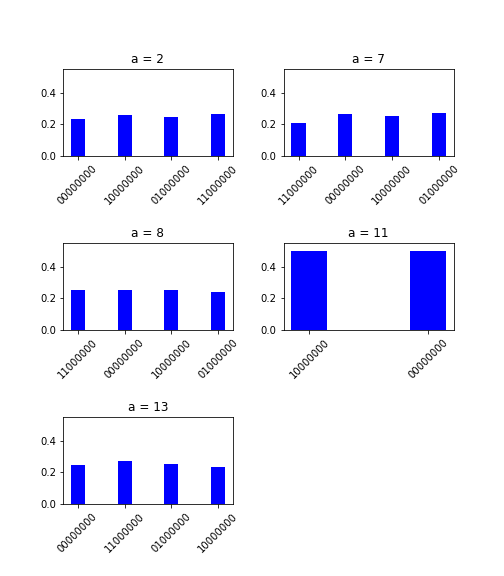
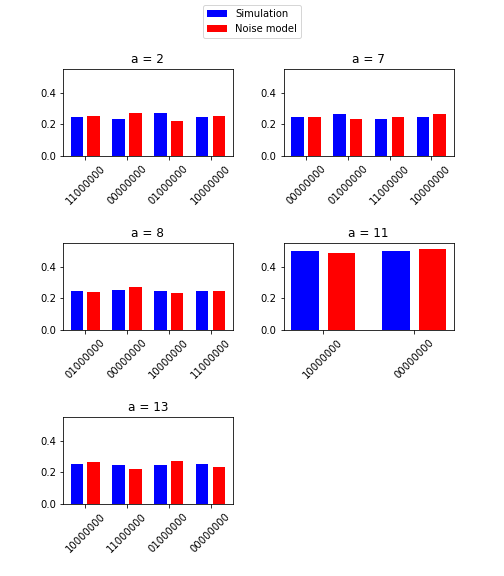
Write code for simultaneous visualization of results of 2 models

diff --git a/visualize.py b/visualize.py
@@ -5,18 +5,33 @@
 
 import matplotlib.pyplot as plt
 import itertools
+import numpy as np
 from math import gcd
-
-def makeBarPlots(counts):
+    
+def makeBarPlots(counts1,counts2):
+    
+    counts1,counts2 = processCounts(counts1,counts2)
+    
     fig, subfig = plt.subplots(3,2,figsize=(7,8))
-    z = zip(counts.items(),itertools.product(range(3),range(2)))
-    for (key,value), (i,j) in z:
+    z1 = zip(counts1.items(),itertools.product(range(3),range(2)))
+    for (key,value), (i,j) in z1:
         if key == None: coninue
-        subfig[i,j].bar([k for k in value.keys()],[v/1024 for v in value.values()],0.3,color="b")
+        x = np.arange(len(value))
+        subfig[i,j].bar(x-0.2,[v/1024 for v in value.values()],0.3,color="b",label="Simulation")
         title = "a = " + str(key)
         subfig[i,j].set_title(title)
         subfig[i,j].set_ylim([0,0.55])
+        subfig[i,j].set_xticks(x)
+        subfig[i,j].set_xticklabels([k for k in value.keys()])
     
+    z2 = zip(counts2.items(),itertools.product(range(3),range(2)))
+    for (key,value), (i,j) in z2:
+        if key == None: coninue
+        x = np.arange(len(value))
+        subfig[i,j].bar(x+0.2,[v/1024 for v in value.values()],0.3,color="r",label="Noise model")
+    
+    handles, labels = subfig[2,0].get_legend_handles_labels()
+    fig.legend(handles, labels, loc='upper center')
     for ax in fig.axes:
         plt.sca(ax)
         plt.xticks(rotation=45)    
@@ -24,11 +39,24 @@ def makeBarPlots(counts):
     plt.subplots_adjust(hspace=1)
     plt.subplots_adjust(wspace=0.3)
     plt.savefig("Results/simulationResults.png")
-    #plt.show()    
+    #plt.show()  
+
+def processCounts(c1,c2):
+    processedCounts = dict()
+    for a,d in c2.items():
+        processedCounts[a] = dict()
+        for k in d.keys():
+            if k in c1[a]:
+                processedCounts[a][k] = c1[a][k]
+            else:
+                processedCounts[a][k] = 0
+            if c2[a][k]==1:
+                c2[a][k]=2 #Add one for better visualization, as only 1 count is too small to be rendered
+    return c1, c2
     
-def guessFactors(df,a,N):
-    path = "Results/a=" + str(a) + ".csv"
-    df.to_csv(path,index=False)  
+def guessFactors(df,a,N,model):
+    path = "Results/" + model + "_a=" + str(a) + ".csv"
+    df.to_csv(path,index=False)
     
     r = df.value_counts(subset=["Guess for r"]).index[0][0] #Take most occurring r
     file = open(path,"a")

diff --git a/main.py b/main.py
@@ -34,14 +34,20 @@ def Simulate(a=7, model=None):
 # Run Shor circuit for multiple guesses of a, and save the results as bar charts
 # and tables
 def SimulateAll():
-    results = dict()
+    results1 = dict()
+    results2 = dict()
     for a in aArray:
-        df, counts = PostProcess(Simulate(a),a)
-        results[a] = counts
-        guessFactors(df,a,15)
+        df1, counts1 = PostProcess(Simulate(a),a)
+        results1[a] = counts1
+        guessFactors(df1,a,15,"Simulation")
+        """Fix here to include noise model"""
+        df2, counts2 = PostProcess(Simulate(a,model=),a) 
+        results2[a] = counts2
+        guessFactors(df2,a,15,"NoiseModel")
         #PostProcess(Simulate(a, "ibmq_16_melbourne"), a)
         #PostProcess(Simulate(a, "qasm_simulator"), a)
-    makeBarPlots(results)
+    makeBarPlots(results1,results2)
+    #return results1,results2
 
 # Take an a, generate circuit and run this on IBMQ
 # Job ID of the job on IBMQ
